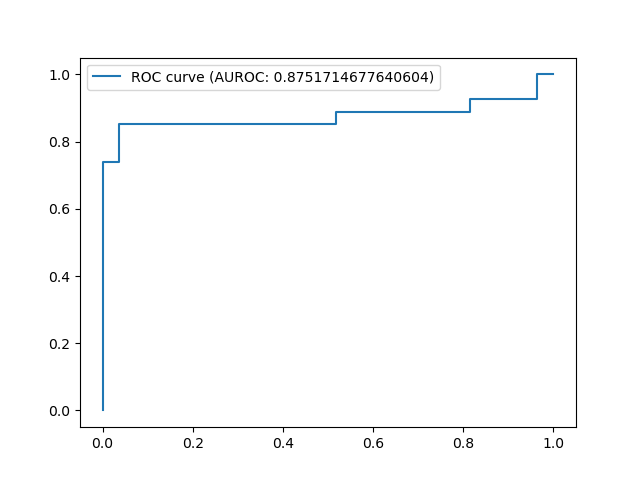
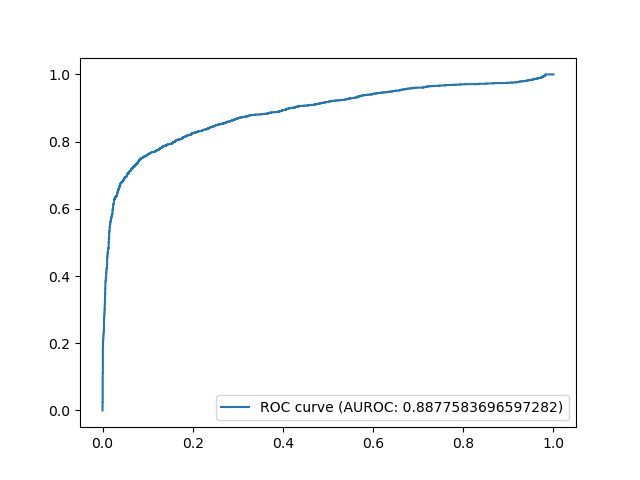
crla and drift window results

diff --git a/NTU/test_carla.py b/NTU/test_carla.py
@@ -4,7 +4,7 @@ import torch
 from torch.cuda import current_blas_handle
 from network import Bi3DOF, Encoder, Decoder
 from datasets import seed, Bi3DOFDataset
-from more_utils import make2D, OOD_score_to_iD_score, min_of_each_row, compute_epsilon_on_iD_traces_only, scan_iD_scores_of_windows, scan_iD_scores_of_windows_and_print_list
+from more_utils import make2D, OOD_score_to_iD_score, min_of_each_row, compute_epsilon_on_iD_traces_only, scan_iD_scores_of_windows, scan_iD_scores_of_windows_and_print_list, collapse_to_1D
 import os
 from sklearn.metrics import roc_curve, roc_auc_score
 import matplotlib.pyplot as plt
@@ -111,17 +111,20 @@ def run(type_of_OOD):
 		OOD_scores_flattened = [h[i]+v[i] for i in range(len(h))]
 		OOD_scores_2D_list = make2D(OOD_scores_flattened, args.n_seqs)
 		iD_scores_2D_list = OOD_score_to_iD_score(OOD_scores_2D_list)
-		iD_scores_for_each_trace = min_of_each_row(iD_scores_2D_list)
+		#iD_scores_for_each_trace = min_of_each_row(iD_scores_2D_list)
+		iD_scores_windows = collapse_to_1D(iD_scores_2D_list)
 		if ('in' in bi3dof_simple["test_clips"]) and ('rainy' not in bi3dof_simple["test_clips"]):
 			GT = 1
 		else:
 			GT = 0
-		GTs_for_each_trace = [GT for _ in range(len(iD_scores_for_each_trace))]
+		#GTs_for_each_trace = [GT for _ in range(len(iD_scores_for_each_trace))]
+		GTs_for_each_trace = [GT for _ in range(len(iD_scores_windows))]
 
 		if GT==0:
 			iD_scores_2D_list_of_OOD_traces_only = iD_scores_2D_list
 
-		iD_scores_all.extend(iD_scores_for_each_trace)
+		# iD_scores_all.extend(iD_scores_for_each_trace)
+		iD_scores_all.extend(iD_scores_windows)
 		GTs_all.extend(GTs_for_each_trace)
 
 	fpr, tpr, threshs = roc_curve(GTs_all, iD_scores_all)
